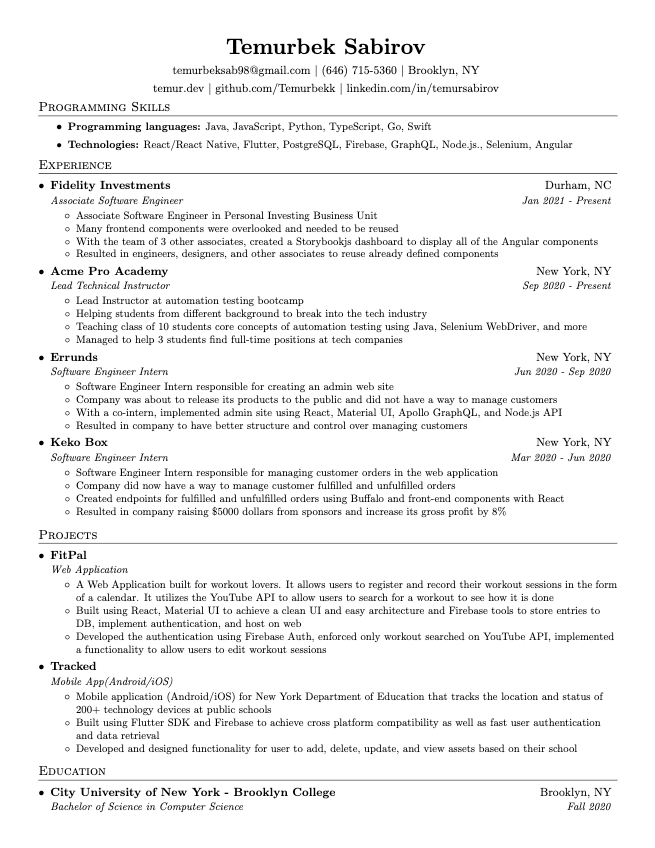
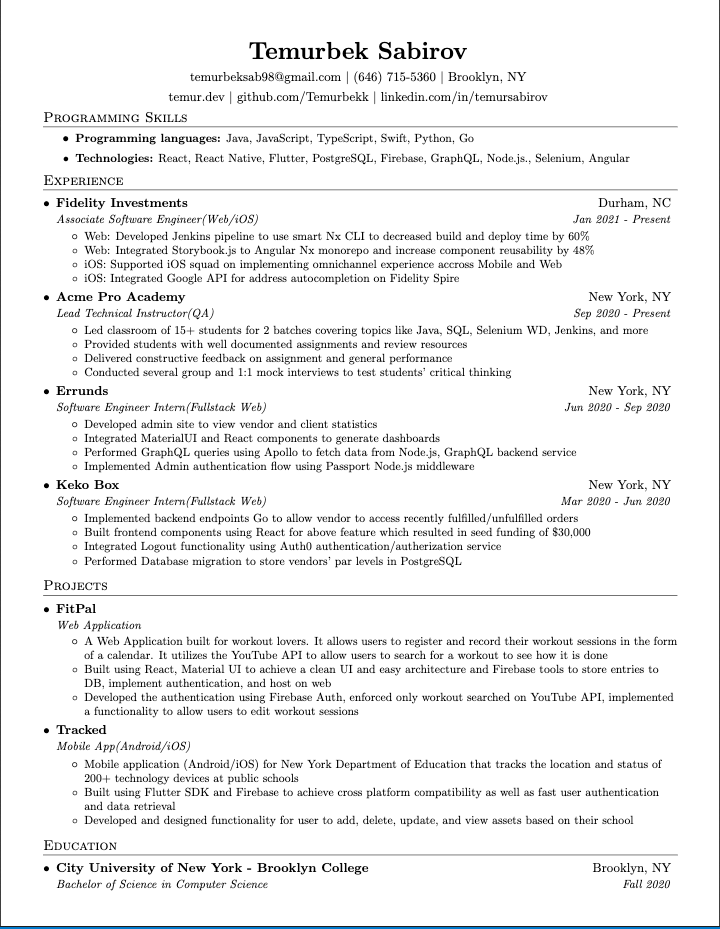
Update bullets

Changed region(s): [[0.0, 0.0307, 1.0, 1.0]]

diff --git a/resume.tex b/resume.tex
@@ -88,9 +88,9 @@
     
 \resumeItemListStart
 \resumeItem{Programming languages:}
-  { Java, JavaScript, Python, TypeScript, Go, Swift}
+  { Java, JavaScript, TypeScript, Swift, Python, Go}
 \resumeItem{Technologies:}
-  { React/React Native, Flutter, PostgreSQL, Firebase, GraphQL, Node.js., Selenium, Angular}
+  { React, React Native, Flutter, PostgreSQL, Firebase, GraphQL, Node.js., Selenium, Angular}
 \resumeItemListEnd
 \vspace{-0.5em}
 %-----------EXPERIENCE-----------------
@@ -99,58 +99,58 @@
 
     \resumeSubheading
       {Fidelity Investments}{Durham, NC}
-      {Associate Software Engineer}{Jan 2021 - Present}
+      {Associate Software Engineer(Web/iOS)}{Jan 2021 - Present}
       \resumeItemListStart
         \resumeItem{}
-            {Associate Software Engineer in Personal Investing Business Unit}
+            {Web: Developed Jenkins pipeline to use smart Nx CLI to decreased build and deploy time by 60\%}
         \resumeItem{}
-            {Many frontend components were overlooked and needed to be reused}
+            {Web: Integrated Storybook.js to Angular Nx monorepo and increase component reusability by 48\%}
         \resumeItem{}
-            {With the team of 3 other associates, created a Storybookjs dashboard to display all of the Angular components}
+            {iOS: Supported iOS squad on implementing omnichannel experience accross Mobile and Web}
         \resumeItem{}
-            {Resulted in engineers, designers, and other associates to reuse already defined components}
+            {iOS: Integrated Google API for address autocompletion on Fidelity Spire}
       \resumeItemListEnd
       
     \resumeSubheading
       {Acme Pro Academy}{New York, NY}
-      {Lead Technical Instructor}{Sep 2020 - Present}
+      {Lead Technical Instructor(QA)}{Sep 2020 - Present}
       \resumeItemListStart
         \resumeItem{}
-            {Lead Instructor at automation testing bootcamp}
+            {Led classroom of 15+ students for 2 batches covering topics like Java, SQL, Selenium WD, Jenkins, and more}
         \resumeItem{}
-            {Helping students from different background to break into the tech industry}
+            {Provided students with well documented assignments and review resources }
         \resumeItem{}
-            {Teaching class of 10 students core concepts of automation testing using Java, Selenium WebDriver, and more}
+            {Delivered constructive feedback on assignment and general performance}
         \resumeItem{}
-            {Managed to help 3 students find full-time positions at tech companies}
+            {Conducted several group and 1:1 mock interviews to test students' critical thinking}
       \resumeItemListEnd
 
     \resumeSubheading
       {Errunds}{New York, NY}
-      {Software Engineer Intern}{Jun 2020 - Sep 2020}
+      {Software Engineer Intern(Fullstack Web)}{Jun 2020 - Sep 2020}
       \resumeItemListStart
         \resumeItem{}
-            {Software Engineer Intern responsible for creating an admin web site}
+            {Developed admin site to view vendor and client statistics}
         \resumeItem{}
-            {Company was about to release its products to the public and did not have a way to manage customers}
+            {Integrated MaterialUI and React components to generate dashboards}
         \resumeItem{}
-            {With a co-intern, implemented admin site using React, Material UI, Apollo GraphQL, and Node.js API}
+            {Performed GraphQL queries using Apollo to fetch data from Node.js, GraphQL backend service}
         \resumeItem{}
-            {Resulted in company to have better structure and control over managing customers}
+            {Implemented Admin authentication flow using Passport Node.js middleware}
       \resumeItemListEnd
 
     \resumeSubheading
       {Keko Box}{New York, NY}
-      {Software Engineer Intern}{Mar 2020 - Jun 2020}
+      {Software Engineer Intern(Fullstack Web)}{Mar 2020 - Jun 2020}
       \resumeItemListStart
         \resumeItem{}
-            {Software Engineer Intern responsible for managing customer orders in the web application}
+            {Implemented backend endpoints Go to allow vendor to access recently fulfilled/unfulfilled orders}
         \resumeItem{}
-            {Company did now have a way to manage customer fulfilled and unfulfilled orders}
+            {Built frontend components using React for above feature which resulted in seed funding of \$30,000}
         \resumeItem{}
-            {Created endpoints for fulfilled and unfulfilled orders using Buffalo and front-end components with React}
+            {Integrated Logout functionality using Auth0 authentication/autherization service}
         \resumeItem{}
-            {Resulted in company raising \$5000 dollars from sponsors and increase its gross profit by 8\%}
+            {Performed Database migration to store vendors' par levels in PostgreSQL}
       \resumeItemListEnd
 
   \resumeSubHeadingListEnd
